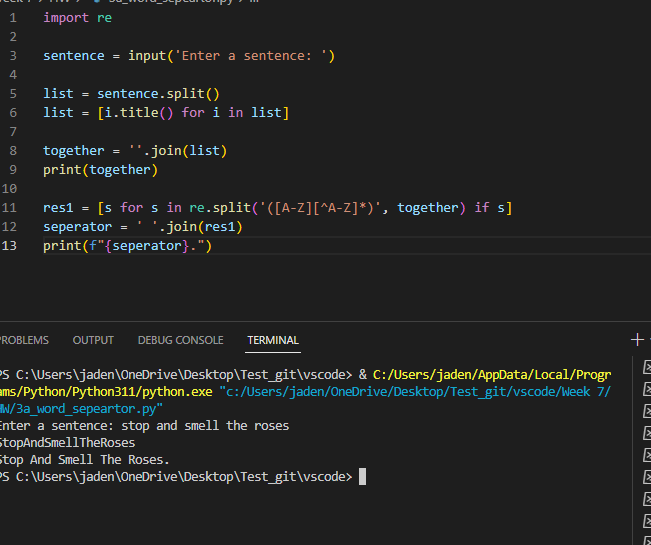
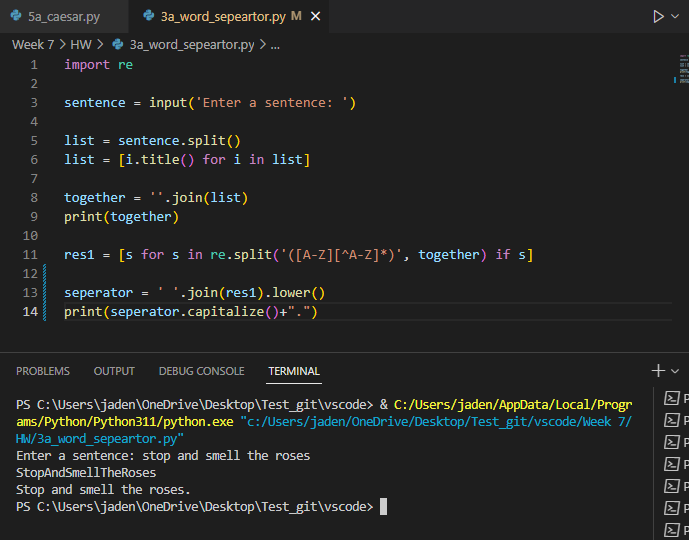
commit

diff --git a/Week 7/HW/1b_blackjack.py b/Week 7/HW/1b_blackjack.py
@@ -1,0 +1,84 @@
+import random
+
+playerIn = True
+dealerIn = True
+
+deck = [2,3,4,5,6,7,8,9,10,
+        2,3,4,5,6,7,8,9,10,
+        2,3,4,5,6,7,8,9,10,
+        2,3,4,5,6,7,8,9,10,
+        'J', 'Q', 'K', 'A',
+        'J', 'Q', 'K', 'A',
+        'J', 'Q', 'K', 'A',
+        'J', 'Q', 'K', 'A']
+
+playerHand = []
+dealerHand = []
+
+def dealCard(turn):
+    card = random.choice(deck)
+    turn.append(card)
+    deck.remove(card)
+
+def total(turn):
+    total = 0
+    ace_11s = 0
+    for card in turn:
+        if card in range(11):
+            total += card
+        elif card in ['J', 'Q', 'K']:
+            total += 10
+        else:
+            total += 11
+            ace_11s += 1
+    while ace_11s and total >21:
+        total -= 10
+        ace_11s -= 1
+    return total
+
+def revealDealerHand():
+    if len(dealerHand) == 2:
+        return dealerHand[0]
+    elif len(dealerHand) > 2:
+        return dealerHand[0], dealerHand[1]
+    
+for _ in range(2):
+    dealCard(dealerHand)
+    dealCard(playerHand)
+
+while playerIn or dealerIn:
+    print(f"Dealer had {revealDealerHand()} and 'X card'")
+    print(f"You have {playerHand} for a total of {total(playerHand)}")
+    if playerIn:
+        stayOrHit = input("1: Stay\n2: hit\n")
+    if total(dealerHand) > 16:
+        dealerIn = False
+    else:
+        dealCard(dealerHand) 
+    if stayOrHit == '1':
+        playerIn = False
+    else:
+        dealCard(playerHand)
+    if total(playerHand) >= 21:
+        break
+    elif total(dealerHand) >= 21:
+        break
+
+if total(playerHand) == 21:
+    print(f"\nYou have {playerHand} for a total of {total(playerHand)} and the dealer has {dealerHand} for a total of {total(dealerHand)}")
+    print("Blackjack! You wins!")
+elif total(dealerHand) == 21:
+    print(f"\nYou have {playerHand} for a total of {total(playerHand)} and the dealer has {dealerHand} for a total of {total(dealerHand)}")
+    print("Blackjack! Dealer wins!")
+elif total(playerHand) > 21:
+    print(f"\nYou have {playerHand} for a total of {total(playerHand)} and the dealer has {dealerHand} for a total of {total(dealerHand)}")
+    print("You bust! Dealer wins!")
+elif total(dealerHand) > 21:
+    print(f"\nYou have {playerHand} for a total of {total(playerHand)} and the dealer has {dealerHand} for a total of {total(dealerHand)}")
+    print("Dealer bust! You wins!")
+elif 21 - total(dealerHand) < 21- total(playerHand):
+    print(f"\nYou have {playerHand} for a total of {total(playerHand)} and the dealer has {dealerHand} for a total of {total(dealerHand)}")
+    print("Dealer wins!")
+elif 21 - total(dealerHand) > 21 - total(playerHand):
+    print(f"\nYou have {playerHand} for a total of {total(playerHand)} and the dealer has {dealerHand} for a total of {total(dealerHand)}")
+    print("You wins!")

diff --git a/Midterm/project4.py b/Midterm/project4.py
@@ -1,0 +1,31 @@
+def WriteInput():
+
+    rent_expense = float(input("Please enter your RENT expense: $"))
+    gas_expense = float(input("Please enter your GAS expense: $"))
+    food_expense = float(input("Please enter your FOOD expense: $"))
+    clothing_expense = float(input("Please enter your CLOTHING expense: $"))
+    car_payment_expense = float(input("Please enter your CAR PAYMENT expense: $"))
+
+    project4file = open('C:\\Users\\jaden\\OneDrive\\Desktop\\Test_git\\vscode\\Midterm\\Expenses.txt','a')
+
+    project4file.write("Rent expenses: $" + str(rent_expense) + "\n")
+    project4file.write("Gas expenses: $" + str(gas_expense) + "\n")
+    project4file.write("Food expenses: $" + str(food_expense) + "\n")
+    project4file.write("Clothing expenses: $" + str(clothing_expense) + "\n")
+    project4file.write("Car payment expenses: $" + str(car_payment_expense) + "\n")
+
+    print('the information have been recorded')
+
+WriteInput()
+
+def ReadInput():
+
+    project4file = open('C:\\Users\\jaden\\OneDrive\\Desktop\\Test_git\\vscode\\Midterm\\Expenses.txt','r')
+
+    project4content = project4file.read()
+
+    project4file.close()
+
+    print(project4content)
+
+ReadInput()

diff --git a/Midterm/project1.py b/Midterm/project1.py
@@ -1,0 +1,25 @@
+def main():
+    fat_value = float(input('Enter fat grams: '))
+    carb_value = float(input('Enter carb grams: '))
+    carb_calculation(carb_value)
+    fat_calculation(fat_value)
+    show_fat_value(fat_calorie)
+    show_carb_value(carb_calorie)
+
+def carb_calculation(carb_value):
+    global carb_calorie
+    carb_calorie = carb_value * 4
+    return carb_calorie
+
+def fat_calculation(fat_value):
+    global fat_calorie
+    fat_calorie = fat_value * 9
+    return fat_calorie
+
+def show_carb_value(carb_calorie):
+    print(f"The calories from carb is: {carb_calorie:,.2f} calories")
+
+def show_fat_value(fat_calorie):
+    print(f"The calories from fat is: {fat_calorie:,.2f} calories")
+
+main()

diff --git a/Midterm/project3.py b/Midterm/project3.py
@@ -1,0 +1,24 @@
+def WriteInput():
+
+    brand = input("Please enter your favorite coffee brand: ")
+
+    InProject2 = open('C:\\Users\\jaden\\OneDrive\\Desktop\\Test_git\\vscode\\Midterm\\Coffee.txt','a')
+    InProject2.write("\n" + brand + ",99-8888,9.88")
+    InProject2.close()
+    print('the information have been recorded')
+
+WriteInput()
+
+def ReadInput():
+
+    InProject2 = open('C:\\Users\\jaden\\OneDrive\\Desktop\\Test_git\\vscode\\Midterm\\Coffee.txt','r')
+
+    Challenge2Contents = InProject2.read()
+
+    InProject2.close()
+
+    print(Challenge2Contents)
+
+ReadInput()
+
+

diff --git a/Midterm/project8.py b/Midterm/project8.py
@@ -1,0 +1,8 @@
+import random
+
+first_names=('John','Andy','Joe','Donald','Michael')
+last_names=('Johnson','Smith','Williams','Huynh','Nguyen')
+names = []
+group="".join(random.choice(first_names)+" "+random.choice(last_names) + "\n" for _ in range(5))
+print("Here are 5 random generated name: ")
+print(group)

diff --git a/Midterm/project2.py b/Midterm/project2.py
@@ -1,0 +1,11 @@
+def ReadInput():
+
+    InProject2 = open('C:\\Users\\jaden\\OneDrive\\Desktop\\Test_git\\vscode\\Midterm\\Coffee.txt','r')
+
+    Challenge2Contents = InProject2.read()
+
+    InProject2.close()
+
+    print(Challenge2Contents)
+
+ReadInput()

diff --git a/Week 7/HW/3a_word_sepeartor.py b/Week 7/HW/3a_word_sepeartor.py
@@ -9,5 +9,6 @@ together = ''.join(list)
 print(together)
 
 res1 = [s for s in re.split('([A-Z][^A-Z]*)', together) if s]
-seperator = ' '.join(res1)
-print(f"{seperator}.")
+
+seperator = ' '.join(res1).lower()
+print(seperator.capitalize()+".")

diff --git a/Midterm/project5.py b/Midterm/project5.py
@@ -1,0 +1,7 @@
+nums = range(20,31)
+num_list = list(nums)
+sum_nums = sum(num_list)
+avg_nums = sum_nums / len(num_list)
+print(num_list)
+print(sum_nums)
+print(avg_nums)

diff --git a/Midterm/project6.py b/Midterm/project6.py
@@ -1,0 +1,6 @@
+nums = range(20,31)
+num_list = list(nums)
+lucky_number = 27
+for num in num_list:
+    if num == lucky_number:
+        print(num)
